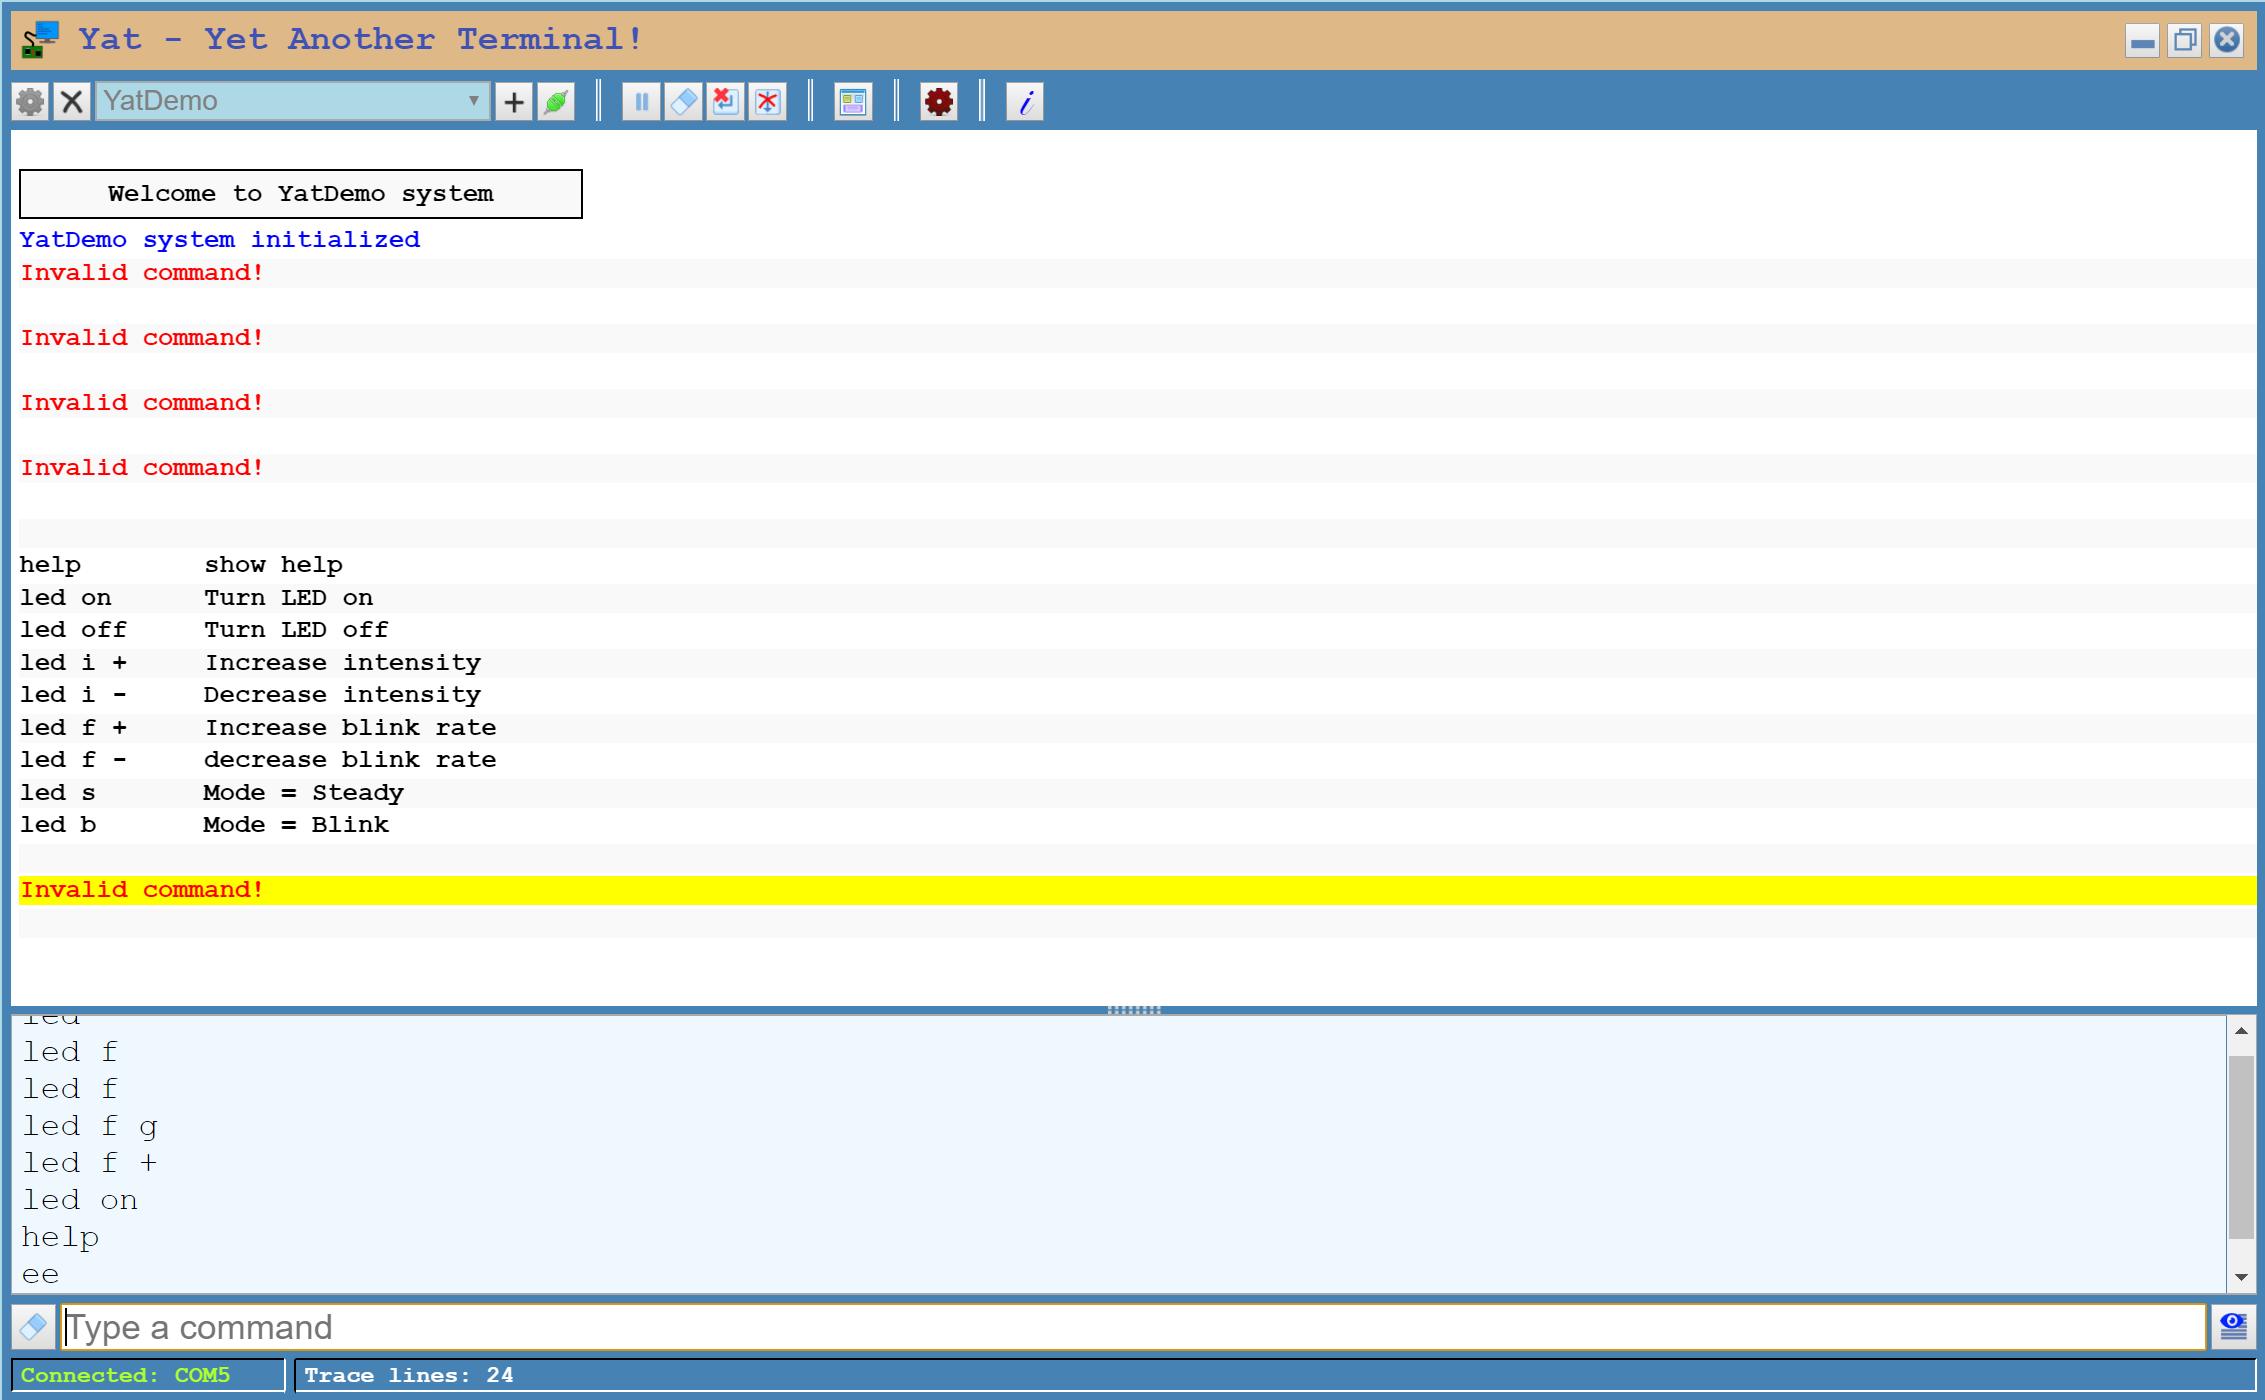
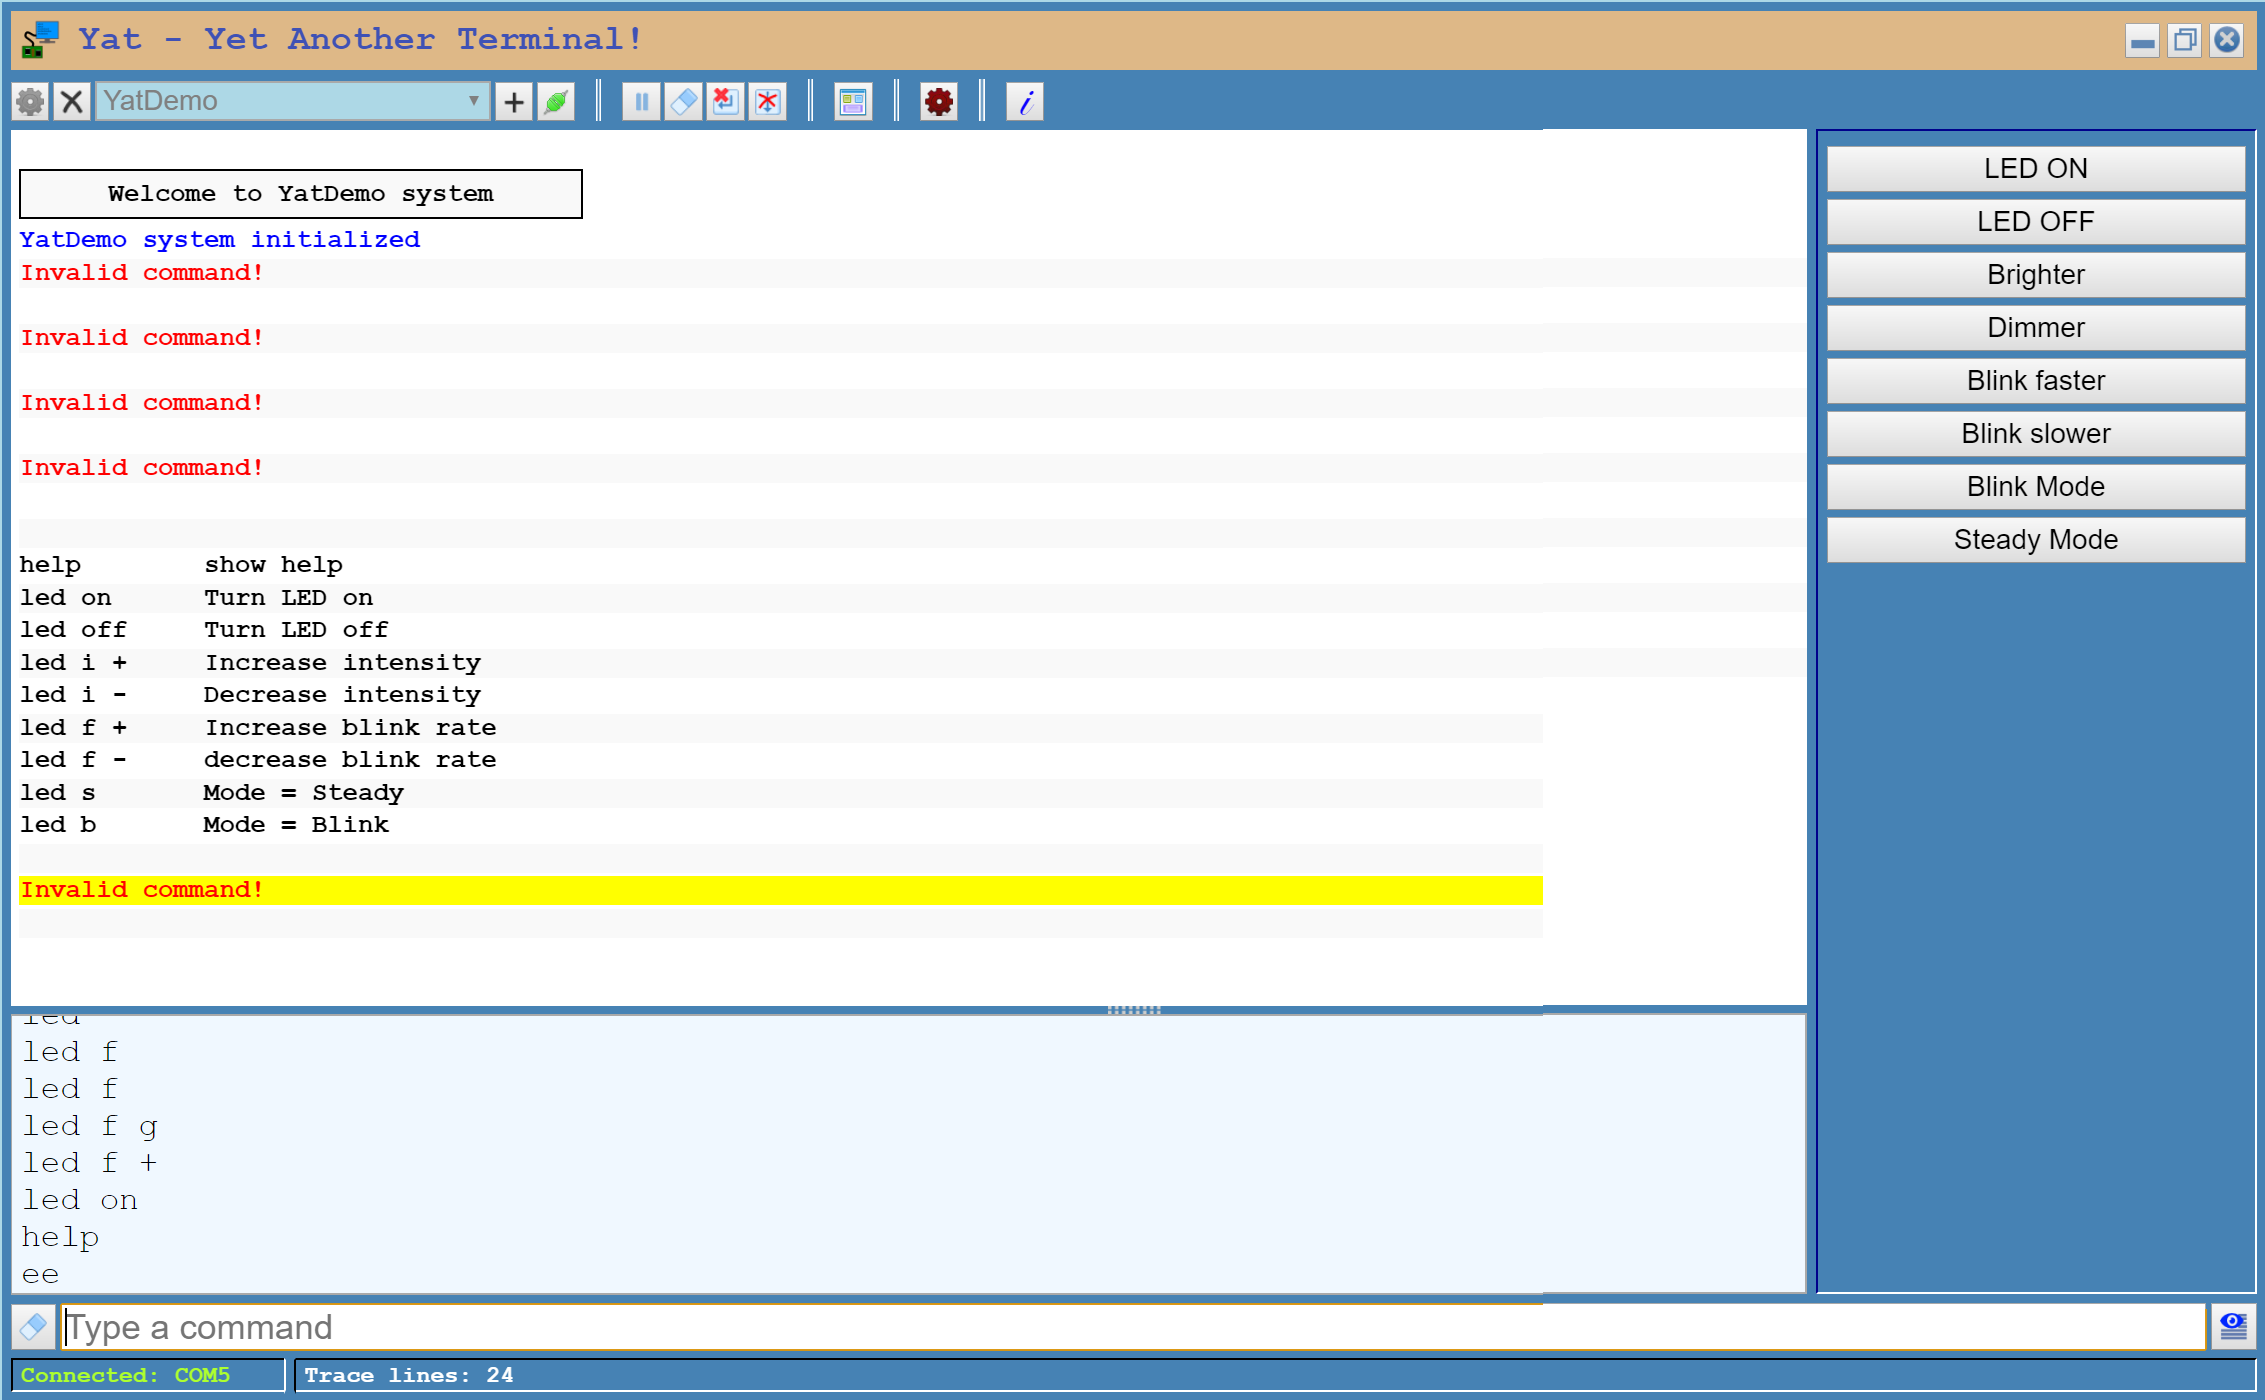
- Updated image to have commands - Added yat config file - Updated readme

Changed region(s): [[0.6799, 0.0921, 1.0, 0.9521]]

diff --git a/README.md b/README.md
@@ -1,5 +1,7 @@
 # yat-demo-avr
 An ATMega168 code to demo Yat (https://www.justyat.com) smart terminal
 
+**NOTE**: Use yat.json for best experience. Remember to backup your original configs.
+
 
 ![](yatdemo.png)
